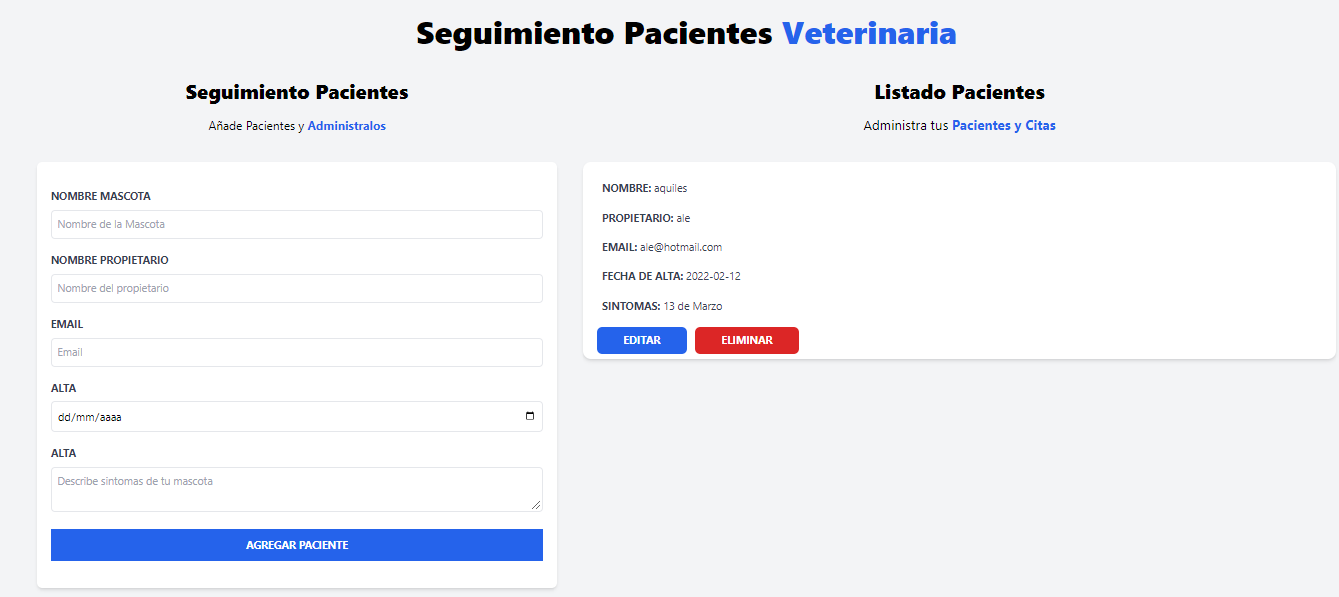
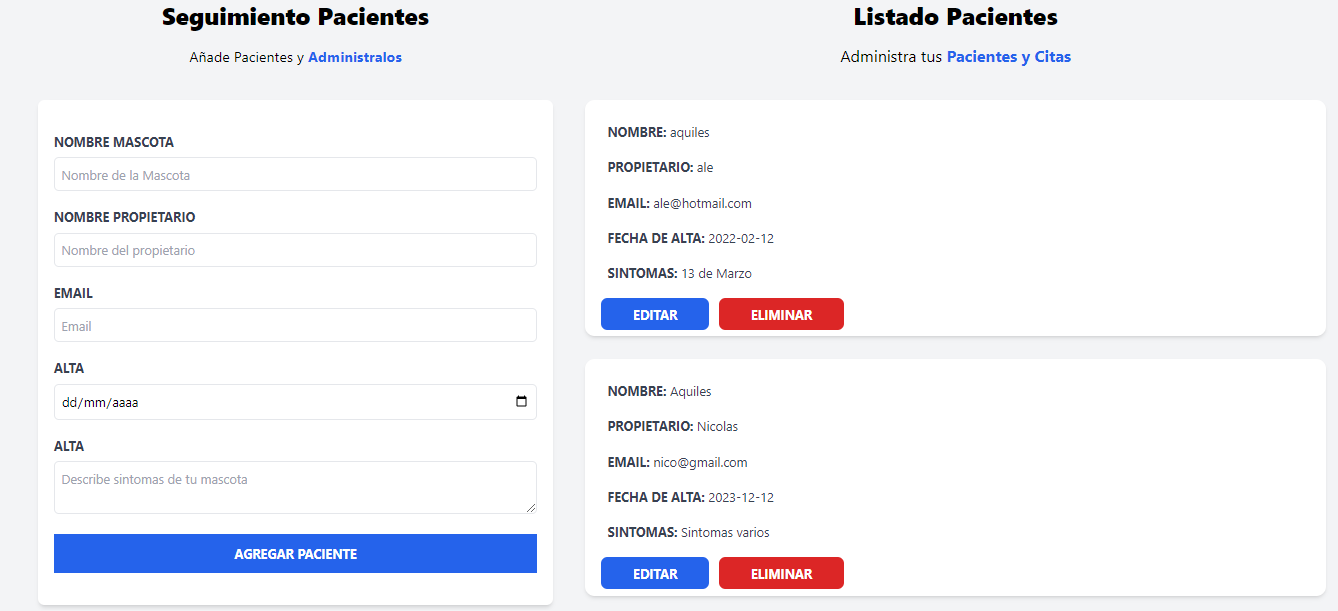
Cambio de proyecto

diff --git a/src/components/Proyectos.jsx b/src/components/Proyectos.jsx
@@ -3,6 +3,7 @@ import presupuesto from "../assets/img/presupuesto.png"
 import criptomonedas from "../assets/img/criptomonedas.png"
 import gestion from "../assets/img/gestion.png"
 import noticias from "../assets/img/noticias.png"
+import pacientesNuevo from "../assets/img/pacientesNuevo.png"
 import reduxNuevo from "../assets/img/reduxNuevo.png"
 import github from "../assets/img/github.png"
 
@@ -149,17 +150,17 @@ const Proyectos = () => {
             </div>
 
             <div className="nuevo-content">
-                <div className="content-img"><img src={noticias}  className="img-noticias"/></div>
+                <div className="content-img"><img src={pacientesNuevo}  className="img-noticias"/></div>
                 
                 <div className="content-redireccion">
                   
-                    <p className="tecnologias" >News search engine</p>
+                    <p className="tecnologias" >Patient manager</p>
                
-                    <h5>News search engine, using the information from an api, it has a filter of sections and categories.</h5>
+                    <h5>System for the control and management of a pet clinic </h5>
                   
 
                     <div className="ver-proyect">
-                        <a target="_blank" href="https://buscador-de-noticias-rho.vercel.app/" className="redireccion-proyect">
+                        <a target="_blank" href="https://patient-shift-react.vercel.app/" className="redireccion-proyect">
                             <button className="boton-repo">
                             See project
                                 <div class="arrow-wrapper">
